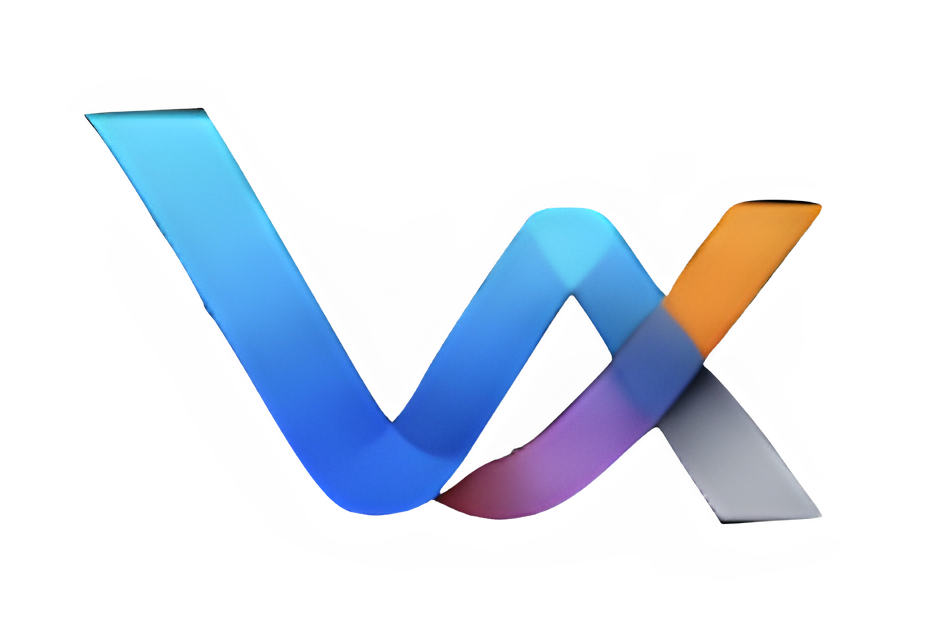
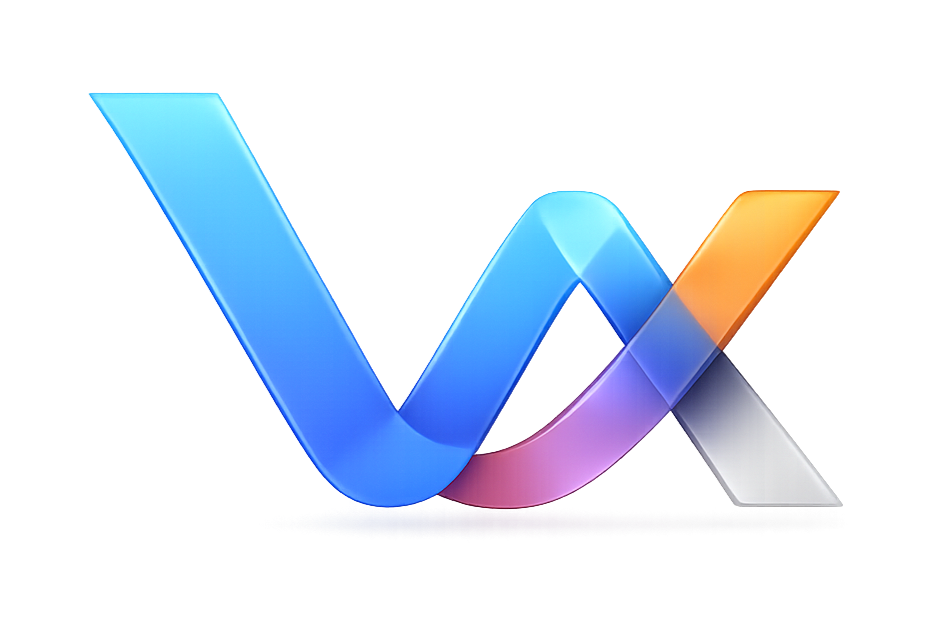
record retention fix
fixed record retention not launching at upgrade, and updated TTL

Changed region(s): [[0.0929, 0.1203, 0.8985, 0.8418]]

diff --git a/src/core.test.ts b/src/core.test.ts
@@ -47,6 +47,7 @@ import {
   releaseRedisLockIfOwned,
   repairMissingAutoBlockForUser,
   refreshConfiguredFlairTemplateCache,
+  shouldReconcileApprovedViewerFlair,
   shouldViewerDisplayVerifiedState,
   submitVerification,
   toModPanelState,
@@ -96,6 +97,7 @@ function buildRecord(overrides: Record<string, unknown> = {}) {
     validationFailureCount: 0,
     terminalValidationFailureCount: 0,
     lastTtlBumpAt: null,
+    retentionDays: null,
     lastAppliedFlairTemplateId: null,
     lastFlairReconcileAt: null,
     ...overrides,
@@ -3618,6 +3620,101 @@ test('shouldViewerDisplayVerifiedState keeps approved users verified when flair 
     ),
     true
   );
+});
+
+// 'abc-123' satisfies isLikelyFlairTemplateId: lowercase alphanumeric + hyphen, has digit, has hyphen.
+const RECONCILE_TEST_TEMPLATE_ID = 'abc-123';
+
+function buildFlairReconcileFixture({
+  lastAppliedFlairTemplateId = null as string | null,
+  flairTemplateId = RECONCILE_TEST_TEMPLATE_ID,
+  detectedTemplateId = '',
+  flairText = '',
+  flairCssClass = '',
+  lookupState = 'confirmed' as 'confirmed' | 'confirmed_absent' | 'unavailable',
+  source = 'viewer-snapshot:no-match',
+} = {}) {
+  const record = buildRecord({
+    status: 'approved',
+    lastAppliedFlairTemplateId,
+  });
+  const config = { ...buildRuntimeConfig(), flairTemplateId, flairCssClass: '' };
+  const flairCheck = {
+    verified: false,
+    configuredTemplateId: flairTemplateId,
+    detectedTemplateId,
+    source,
+    error: null,
+  };
+  const viewerFlairSnapshot = {
+    userId: 't2_abc',
+    lookupState,
+    flairTemplateId: detectedTemplateId,
+    flairText,
+    flairCssClass,
+    error: null,
+  };
+  return { record, config, flairCheck, viewerFlairSnapshot };
+}
+
+test('shouldReconcileApprovedViewerFlair repairs legacy record (null lastAppliedFlairTemplateId) when flair is completely absent', () => {
+  const { record, config, flairCheck, viewerFlairSnapshot } = buildFlairReconcileFixture({
+    lastAppliedFlairTemplateId: null,
+    detectedTemplateId: '',
+    flairText: '',
+    flairCssClass: '',
+  });
+  assert.equal(shouldReconcileApprovedViewerFlair(record as never, config, flairCheck, viewerFlairSnapshot as never), true);
+});
+
+test('shouldReconcileApprovedViewerFlair skips legacy record when some flair is present (cannot distinguish intentional from accidental)', () => {
+  const withTemplate = buildFlairReconcileFixture({ lastAppliedFlairTemplateId: null, detectedTemplateId: 'flair_other_xyz' });
+  assert.equal(
+    shouldReconcileApprovedViewerFlair(withTemplate.record as never, withTemplate.config, withTemplate.flairCheck, withTemplate.viewerFlairSnapshot as never),
+    false,
+  );
+
+  const withText = buildFlairReconcileFixture({ lastAppliedFlairTemplateId: null, flairText: 'Verified' });
+  assert.equal(
+    shouldReconcileApprovedViewerFlair(withText.record as never, withText.config, withText.flairCheck, withText.viewerFlairSnapshot as never),
+    false,
+  );
+
+  const withCss = buildFlairReconcileFixture({ lastAppliedFlairTemplateId: null, flairCssClass: 'verified' });
+  assert.equal(
+    shouldReconcileApprovedViewerFlair(withCss.record as never, withCss.config, withCss.flairCheck, withCss.viewerFlairSnapshot as never),
+    false,
+  );
+});
+
+test('shouldReconcileApprovedViewerFlair skips legacy record when flair snapshot is unavailable', () => {
+  const { record, config, flairCheck, viewerFlairSnapshot } = buildFlairReconcileFixture({
+    lastAppliedFlairTemplateId: null,
+    detectedTemplateId: '',
+    flairText: '',
+    flairCssClass: '',
+    lookupState: 'unavailable',
+    source: 'viewer-snapshot:unavailable',
+  });
+  assert.equal(shouldReconcileApprovedViewerFlair(record as never, config, { ...flairCheck, source: 'viewer-snapshot:unavailable' }, { ...viewerFlairSnapshot, lookupState: 'unavailable' } as never), false);
+});
+
+test('shouldReconcileApprovedViewerFlair normal record with known lastAppliedFlairTemplateId still follows existing logic', () => {
+  // Flair is correct — no repair needed.
+  const correct = buildFlairReconcileFixture({
+    lastAppliedFlairTemplateId: RECONCILE_TEST_TEMPLATE_ID,
+    detectedTemplateId: RECONCILE_TEST_TEMPLATE_ID,
+  });
+  assert.equal(shouldReconcileApprovedViewerFlair(correct.record as never, correct.config, correct.flairCheck, correct.viewerFlairSnapshot as never), false);
+
+  // Flair is completely absent — repair needed.
+  const absent = buildFlairReconcileFixture({
+    lastAppliedFlairTemplateId: RECONCILE_TEST_TEMPLATE_ID,
+    detectedTemplateId: '',
+    flairText: '',
+    flairCssClass: '',
+  });
+  assert.equal(shouldReconcileApprovedViewerFlair(absent.record as never, absent.config, absent.flairCheck, absent.viewerFlairSnapshot as never), true);
 });
 
 test('isViewerAwaitingFlairPropagation is only true for recent approved records that have not confirmed flair yet', async () => {

diff --git a/src/client/hub-app.js b/src/client/hub-app.js
@@ -1391,6 +1391,8 @@ export function mountHub(options = {}) {
         refs.submitWarningCancel.removeEventListener('click', onCancel);
         refs.submitWarningContinue.removeEventListener('click', onContinue);
         refs.submitWarningModal.removeEventListener('click', onBackdrop);
+        refs.submitWarningContinue.disabled = false;
+        refs.submitWarningContinue.title = '';
         resolve(result);
       };
 
@@ -1420,6 +1422,11 @@ export function mountHub(options = {}) {
       refs.submitWarningContinue.addEventListener('click', onContinue);
       refs.submitWarningModal.addEventListener('click', onBackdrop);
       refs.submitWarningModal.classList.remove('hidden');
+      const demoMode = isVouchxHomeSubreddit(hubState?.subredditName ?? '');
+      if (demoMode) {
+        refs.submitWarningContinue.disabled = true;
+        refs.submitWarningContinue.title = 'Verification submissions are disabled in r/vouchx. This subreddit is for demonstration purposes only.';
+      }
     });
   }
 
@@ -2034,7 +2041,7 @@ export function mountHub(options = {}) {
       !state.requiresInitialSetup &&
       !(state.userLatest && state.userLatest.status === 'pending')
     ) {
-      infoText = 'This is the VouchX home subreddit. Verification submissions are disabled here.';
+      infoText = 'This is the VouchX home subreddit. Verification submissions are disabled here — this subreddit is for demonstration purposes only.';
     } else if (awaitingFlairPropagation) {
       commandTitle = 'Approval syncing';
       infoText = 'Your approval was recorded. Verified flair is still syncing and should update shortly.';
@@ -2113,16 +2120,8 @@ export function mountHub(options = {}) {
         })
       );
       const submitButton = makeButton(submitLabel, 'btn-primary', (event) => {
-        if (submissionsDisabledForHomeSubreddit) {
-          showToast('Verification submissions are disabled in r/vouchx.', 'info');
-          return;
-        }
         void openSubmitForm(event);
       });
-      if (submissionsDisabledForHomeSubreddit) {
-        submitButton.disabled = true;
-        submitButton.title = 'Verification submissions are disabled in r/vouchx.';
-      }
       refs.actionRow.appendChild(submitButton);
     }
 

diff --git a/src/core/flair.ts b/src/core/flair.ts
@@ -456,8 +456,16 @@ export function shouldReconcileApprovedViewerFlair(
   }
 
   const lastAppliedTemplateId = normalizeTemplateId(latestRecord.lastAppliedFlairTemplateId ?? '');
-  if (!lastAppliedTemplateId || !isLikelyFlairTemplateId(lastAppliedTemplateId)) {
-    return false;
+  const hasLastApplied = Boolean(lastAppliedTemplateId) && isLikelyFlairTemplateId(lastAppliedTemplateId);
+
+  if (!hasLastApplied) {
+    // Legacy record: no known applied template. Only repair if flair is completely absent —
+    // without knowing what was originally applied we cannot safely distinguish an intentional
+    // mod flair change from an accidental removal, so we stay conservative.
+    const detectedTemplateId = normalizeTemplateId(flairCheck.detectedTemplateId || viewerFlairSnapshot.flairTemplateId);
+    const detectedText = viewerFlairSnapshot.flairText.trim().toLowerCase();
+    const detectedCss = normalizeCssClass(viewerFlairSnapshot.flairCssClass);
+    return !detectedTemplateId && !detectedText && !detectedCss;
   }
 
   const detectedTemplateId = normalizeTemplateId(flairCheck.detectedTemplateId || viewerFlairSnapshot.flairTemplateId);

diff --git a/src/core/records.ts b/src/core/records.ts
@@ -13,6 +13,7 @@ import {
   MILLIS_PER_DAY,
   STALE_RECORD_INDEX_SWEEP_BATCH_SIZE,
   STORAGE_METER_CAP_BYTES,
+  LEGACY_VERIFIED_RECORD_RETENTION_DAYS,
   VERIFIED_RECORD_RETENTION_DAYS,
 } from './constants.ts';
 import { normalizeTemplateId } from './flair.ts';
@@ -498,7 +499,11 @@ export async function setRecord(context: RedisContext, subredditId: string, reco
   if (recordToStore.status === 'approved') {
     const lastTtlBumpAt = getApprovedRecordRetentionAnchorMs(recordToStore, nowMs);
     recordToStore.lastTtlBumpAt = lastTtlBumpAt;
-    expirationMs = lastTtlBumpAt + VERIFIED_RECORD_RETENTION_DAYS * MILLIS_PER_DAY;
+    const retentionDays =
+      typeof recordToStore.retentionDays === 'number' && recordToStore.retentionDays > 0
+        ? recordToStore.retentionDays
+        : LEGACY_VERIFIED_RECORD_RETENTION_DAYS;
+    expirationMs = lastTtlBumpAt + retentionDays * MILLIS_PER_DAY;
   }
   await context.redis.set(verificationRecordKey(subredditId, record.id), JSON.stringify(recordToStore), {
     expiration: new Date(expirationMs),
@@ -570,6 +575,10 @@ export function parseRecord(payload: string): VerificationRecord | null {
       lastTtlBumpAt:
         typeof parsed.lastTtlBumpAt === 'number' && Number.isFinite(parsed.lastTtlBumpAt)
           ? Math.max(0, Math.floor(parsed.lastTtlBumpAt))
+          : null,
+      retentionDays:
+        typeof parsed.retentionDays === 'number' && Number.isFinite(parsed.retentionDays) && parsed.retentionDays > 0
+          ? Math.floor(parsed.retentionDays)
           : null,
       lastAppliedFlairTemplateId:
         typeof parsed.lastAppliedFlairTemplateId === 'string'

diff --git a/src/core/retention.ts b/src/core/retention.ts
@@ -22,6 +22,7 @@ import {
   VALIDATION_BATCH_SIZE,
   VALIDATION_CHECK_INTERVAL_DAYS,
   VALIDATION_HARD_EXPIRY_DAYS,
+  LEGACY_VERIFIED_RECORD_RETENTION_DAYS,
   VERIFIED_RECORD_RETENTION_DAYS,
   VERIFIED_RECORD_TTL_BUMP_INTERVAL_MS,
 } from './constants.ts';
@@ -120,7 +121,12 @@ export async function pruneHistoryOlderThanDays(
 
     if (
       parsed.status === 'approved' &&
-      getApprovedRecordRetentionAnchorMs(parsed, nowMs) + VERIFIED_RECORD_RETENTION_DAYS * MILLIS_PER_DAY > nowMs
+      getApprovedRecordRetentionAnchorMs(parsed, nowMs) +
+        (typeof parsed.retentionDays === 'number' && parsed.retentionDays > 0
+          ? parsed.retentionDays
+          : LEGACY_VERIFIED_RECORD_RETENTION_DAYS) *
+          MILLIS_PER_DAY >
+        nowMs
     ) {
       continue;
     }

diff --git a/src/core/constants.ts b/src/core/constants.ts
@@ -41,7 +41,12 @@ export const HISTORY_RETENTION_DAYS = 45;
 
 export const AUDIT_RETENTION_DAYS = 45;
 
-export const VERIFIED_RECORD_RETENTION_DAYS = 90;
+// Retention window agreed to in the original ToC. Used as the fallback for records
+// that pre-date the retentionDays field and must not be silently extended.
+export const LEGACY_VERIFIED_RECORD_RETENTION_DAYS = 90;
+
+// Retention window for records approved under the current policy.
+export const VERIFIED_RECORD_RETENTION_DAYS = 180;
 
 export const VERIFIED_RECORD_TTL_BUMP_INTERVAL_MS = MILLIS_PER_DAY;
 

diff --git a/src/core/review-actions.ts b/src/core/review-actions.ts
@@ -30,7 +30,7 @@ import {
   setManualBlockedUserEntry,
   unblockUserForModerator,
 } from './blocking.ts';
-import { BATCH_REVIEW_CONCURRENCY, HISTORY_RETENTION_DAYS, MAX_BATCH_REVIEW_ITEMS } from './constants.ts';
+import { BATCH_REVIEW_CONCURRENCY, HISTORY_RETENTION_DAYS, MAX_BATCH_REVIEW_ITEMS, VERIFIED_RECORD_RETENTION_DAYS } from './constants.ts';
 import { toPendingPanelItem } from './dashboard.ts';
 import { configuredApprovalTemplateIds, isLikelyFlairTemplateId, normalizeTemplateId } from './flair.ts';
 import {
@@ -350,6 +350,7 @@ export async function approveVerification(
       validationFailureCount: 0,
       terminalValidationFailureCount: 0,
       lastTtlBumpAt: Date.now(),
+      retentionDays: VERIFIED_RECORD_RETENTION_DAYS,
       lastAppliedFlairTemplateId: normalizeTemplateId(flairResult.appliedTemplateId ?? templateIdForApproval),
       lastFlairReconcileAt: null,
     };

diff --git a/src/core.ts b/src/core.ts
@@ -37,6 +37,7 @@ export {
   isViewerAwaitingFlairPropagation,
   loadApprovalFlairOptionsForSettings,
   refreshConfiguredFlairTemplateCache,
+  shouldReconcileApprovedViewerFlair,
   shouldViewerDisplayVerifiedState,
   validateFlairTemplateId,
   validateFlairTemplateIdForSubreddit,

diff --git a/src/core/types.ts b/src/core/types.ts
@@ -103,6 +103,7 @@ export type VerificationRecord = {
   validationFailureCount?: number;
   terminalValidationFailureCount?: number;
   lastTtlBumpAt?: number | null;
+  retentionDays?: number | null;
   lastAppliedFlairTemplateId?: string | null;
   lastFlairReconcileAt?: number | null;
 };

diff --git a/README.md b/README.md
@@ -81,7 +81,7 @@ Track moderator activity and verification volume.
 ## Data & Retention
 
 - Pending / denied records: **45 days**  
-- Approved users: **90-day rolling retention**  
+- Approved users: **180-day rolling retention**  
 - Audit logs: **45 days**  
 
 Data may also be removed earlier in the following cases:
@@ -108,6 +108,18 @@ These background processes help ensure data is kept up to date and not retained 
 Full changelog:  
 [https://www.reddit.com/r/vouchx/wiki/changelog/](https://www.reddit.com/r/vouchx/wiki/changelog/)
 
+
+### v1.5.2
+
+#### Critical Fix:
+- Fixes a Cron job name mismatch that prevented the nightly user validation reconcile job from running.
+
+#### Other Changes:
+
+- Fixes an issue where the auto flair repair could silently skip approved users verified before VouchX v1.3.0
+- TTL for newly approved records extended to 180 days to better support members who browse infrequently. Records for previously approved users are unaffected.
+
+---
 
 ### v1.5.1
 